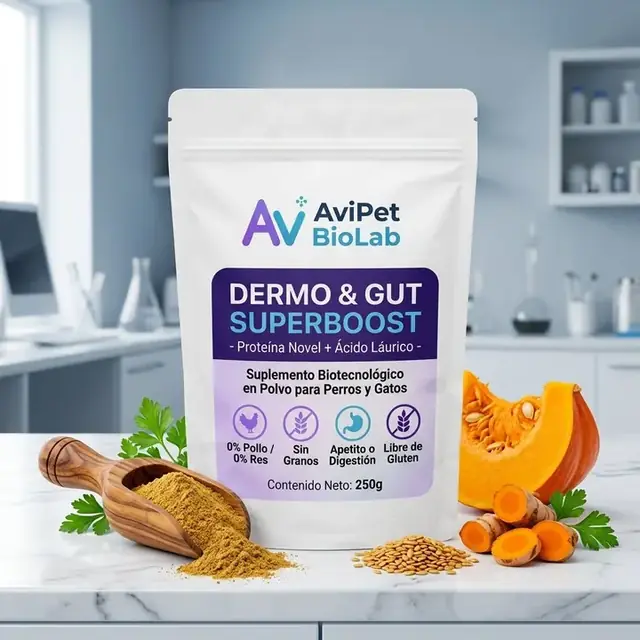
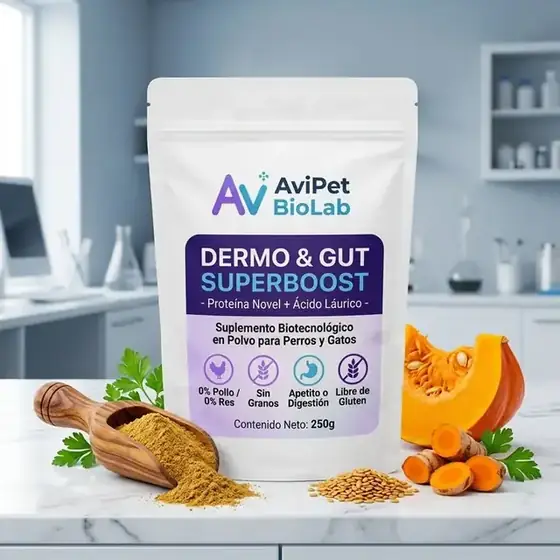
fix(biolab): restore CLS=0, Accessibility=100, Agentic=3/3 while keeping FCP=1.5s and TBT=0ms

diff --git a/resources/js/Pages/BioLab/DermoGutSuperboost.tsx b/resources/js/Pages/BioLab/DermoGutSuperboost.tsx
@@ -66,7 +66,7 @@ const COLOMBIA_DEPARTMENTS = [
 // 4 VISTAS DE ESTUDIO EXCLUSIVAS DE LA GALERÍA SUPERIOR (CERO DUPLICADOS EN EL RESTO DE LA PÁGINA)
 const GALLERY_IMAGES = [
     {
-        src: '/images/biolab/hero-estudio-1-bolsa.webp?v=3',
+        src: '/images/biolab/hero-estudio-1-bolsa.webp?v=4',
         thumbSrc: '/images/biolab/hero-estudio-1-bolsa-thumb.webp?v=3',
         thumbLabel: 'Empaque 250g',
         badge: '✨ FÓRMULA OFICIAL 250g • 50 DOSIS',
@@ -351,11 +351,6 @@ export default function DermoGutSuperboost({ product }: Props) {
 
     // Restore recent order from localStorage if still within 15-min anti-duplicate window + Fire ViewContent
     useEffect(() => {
-        const ssrShell = document.getElementById('biolab-ssr-shell');
-        if (ssrShell) {
-            ssrShell.style.cssText = 'position:fixed;top:0;left:0;width:100%;pointer-events:none;z-index:-10;opacity:0.001;';
-        }
-
         const enableGif = () => setShouldLoadAnimatedGif(true);
         const events = ['scroll', 'touchstart', 'pointerdown', 'mousemove', 'keydown'];
         events.forEach((ev) => window.addEventListener(ev, enableGif, { once: true, passive: true }));

diff --git a/resources/views/app.blade.php b/resources/views/app.blade.php
@@ -246,7 +246,7 @@
     <link rel="alternate" hreflang="es-CO" href="{{ $canonicalUrl }}">
     <link rel="alternate" hreflang="es" href="{{ $canonicalUrl }}">
     <link rel="alternate" hreflang="x-default" href="{{ $canonicalUrl }}">
-    <link rel="preload" as="image" href="/images/biolab/hero-estudio-1-bolsa.webp?v=3" type="image/webp" fetchpriority="high">
+    <link rel="preload" as="image" href="/images/biolab/hero-estudio-1-bolsa.webp?v=4" type="image/webp" fetchpriority="high">
 
     <!-- Open Graph / WhatsApp Business / Meta Catalog -->
     <meta property="og:type" content="product">
@@ -501,26 +501,8 @@
     <link rel="apple-touch-icon" sizes="180x180" href="{{ $favIcon }}">
     @endif
 
-    @if($isBioLabPage)
-    <style>
-      body{margin:0;background:#F8FAFC;color:#0F172A;font-family:Inter,system-ui,-apple-system,sans-serif;-webkit-font-smoothing:antialiased}
-      .sr-only{position:absolute;width:1px;height:1px;padding:0;margin:-1px;overflow:hidden;clip:rect(0,0,0,0);white-space:nowrap;border-width:0}
-    </style>
-    @viteReactRefresh
-    @php ob_start(); @endphp
-    @vite(['resources/js/app.tsx', "resources/js/Pages/{$page['component']}.tsx"])
-    @php
-        $viteTags = ob_get_clean();
-        echo str_replace(
-            'rel="stylesheet"',
-            'rel="stylesheet" media="print" onload="this.media=\'all\'"',
-            $viteTags
-        );
-    @endphp
-    @else
     @viteReactRefresh
     @vite(isset($page['component']) ? ['resources/js/app.tsx', "resources/js/Pages/{$page['component']}.tsx"] : ['resources/js/app.tsx'])
-    @endif
     @inertiaHead
 </head>
 <body class="h-full font-sans antialiased bg-[#F4F7FC] text-[#15213B] selection:bg-[#6D28D9] selection:text-white">
@@ -541,38 +523,6 @@
             );
         @endphp
     @elseif($isBioLabPage)
-        <div id="biolab-ssr-shell" aria-hidden="true" style="background:#F8FAFC;color:#0F172A;font-family:Inter,system-ui,-apple-system,sans-serif;">
-            <div style="background:#1E1446;color:#FFFFFF;padding:8px 12px;text-align:center;font-size:11px;font-weight:800;">
-                🇨🇴 ENVÍO GRATIS HOY EN COLOMBIA • <span style="color:#FCD34D;">💵 PAGO CONTRAENTREGA</span>
-            </div>
-            <div style="background:#FFFFFF;border-bottom:1px solid #E2E8F0;padding:10px 12px;display:flex;align-items:center;justify-content:space-between;max-width:1280px;margin:0 auto;">
-                <div style="display:flex;align-items:center;gap:8px;">
-                    <img src="/images/biolab/logo-avipet-biolab.webp?v=3" alt="" width="40" height="40" decoding="sync" style="width:40px;height:40px;border-radius:12px;object-fit:cover;border:1px solid #E2E8F0;" />
-                    <div>
-                        <div style="font-size:16px;font-weight:900;color:#1E1446;line-height:1.1;">AVIPET <span style="color:#0E7490;">BioLab®</span></div>
-                        <div style="font-size:10px;font-weight:600;color:#64748B;">Biotecnología Nutricional Veterinaria</div>
-                    </div>
-                </div>
-                <div style="background:#047857;color:#FFFFFF;font-weight:800;font-size:12px;padding:8px 14px;border-radius:12px;">
-                    🚚 Pedir Contraentrega
-                </div>
-            </div>
-            <div style="max-width:1280px;margin:0 auto;padding:12px;">
-                <div style="background:#FFFFFF;border-radius:16px;border:1px solid #E2E8F0;padding:8px;max-width:560px;margin:0 auto;">
-                    <div style="position:relative;aspect-ratio:1/1;width:100%;border-radius:12px;overflow:hidden;background:#F8FAFC;">
-                        <img
-                            src="/images/biolab/hero-estudio-1-bolsa.webp?v=3"
-                            alt=""
-                            width="640"
-                            height="640"
-                            fetchpriority="high"
-                            decoding="sync"
-                            style="width:100%;height:100%;object-fit:cover;display:block;"
-                        />
-                    </div>
-                </div>
-            </div>
-        </div>
         @php ob_start(); @endphp
         @inertia
         @php

diff --git a/resources/views/partials/seo_biolab_prerender.blade.php b/resources/views/partials/seo_biolab_prerender.blade.php
@@ -1,3 +1,62 @@
+<div class="min-h-screen bg-[#F8FAFC] text-slate-900 font-sans antialiased">
+    <div class="bg-gradient-to-r from-[#1E1446] via-[#2D1B69] to-[#1E1446] text-white py-2 px-3 border-b border-indigo-500/30">
+        <div class="max-w-7xl mx-auto flex flex-wrap items-center justify-center gap-x-4 gap-y-1 text-[11px] sm:text-xs font-extrabold tracking-wide text-center">
+            <span class="inline-flex items-center gap-1.5">
+                <span>🇨🇴</span>
+                <span>ENVÍO GRATIS HOY EN COLOMBIA</span>
+            </span>
+            <span class="hidden sm:inline text-indigo-300">•</span>
+            <span class="text-amber-300">🤝 PAGAS AL RECIBIR EN CASA</span>
+        </div>
+    </div>
+    <header class="bg-white border-b border-slate-200">
+        <div class="max-w-7xl mx-auto px-3 sm:px-6 lg:px-8 h-16 flex items-center justify-between gap-2">
+            <div class="flex items-center gap-2 sm:gap-3 min-w-0">
+                <img
+                    src="/images/biolab/logo-avipet-biolab.webp?v=3"
+                    alt="AVIPET BioLab"
+                    width="44"
+                    height="44"
+                    decoding="sync"
+                    class="h-10 w-10 sm:h-11 sm:w-11 rounded-xl object-cover border border-slate-200 shadow-sm shrink-0"
+                />
+                <div class="min-w-0">
+                    <div class="flex items-center gap-1">
+                        <span class="text-base sm:text-lg font-black tracking-tight text-[#1E1446]">AVIPET</span>
+                        <span class="text-base sm:text-lg font-extrabold tracking-tight text-cyan-700">BioLab®</span>
+                    </div>
+                    <p class="text-[10px] sm:text-[11px] font-semibold text-slate-600 -mt-1 truncate">
+                        Biotecnología Nutricional Veterinaria
+                    </p>
+                </div>
+            </div>
+            <span class="bg-emerald-700 text-white font-extrabold text-xs sm:text-sm px-3 sm:px-4 py-2 sm:py-2.5 rounded-xl shadow-md shrink-0">
+                🚚 Pedir Contraentrega
+            </span>
+        </div>
+    </header>
+    <main>
+        <section class="max-w-7xl mx-auto px-3 sm:px-6 lg:px-8 pt-4 sm:pt-6 pb-12 sm:pb-14">
+            <div class="grid grid-cols-1 lg:grid-cols-12 gap-6 lg:gap-10 items-start">
+                <div class="lg:col-span-6 space-y-3.5 sm:space-y-4">
+                    <div class="relative bg-white rounded-2xl sm:rounded-3xl border-2 border-slate-200 shadow-xl overflow-hidden">
+                        <div class="aspect-square w-full bg-slate-50 flex items-center justify-center overflow-hidden">
+                            <img
+                                src="/images/biolab/hero-estudio-1-bolsa.webp?v=4"
+                                alt="Empaque Doypack con cierre hermético Zipper (250g) rodeado de sus ingredientes bio-activos puros."
+                                width="560"
+                                height="560"
+                                fetchpriority="high"
+                                decoding="sync"
+                                class="w-full h-full object-cover"
+                            />
+                        </div>
+                    </div>
+                </div>
+            </div>
+        </section>
+    </main>
+</div>
 <article class="sr-only">
     <header>
         <p>🔬 BIOTECNOLOGÍA CLÍNICA VETERINARIA • RESULTADOS VISIBLES DESDE LA 1.ª SEMANA</p>
